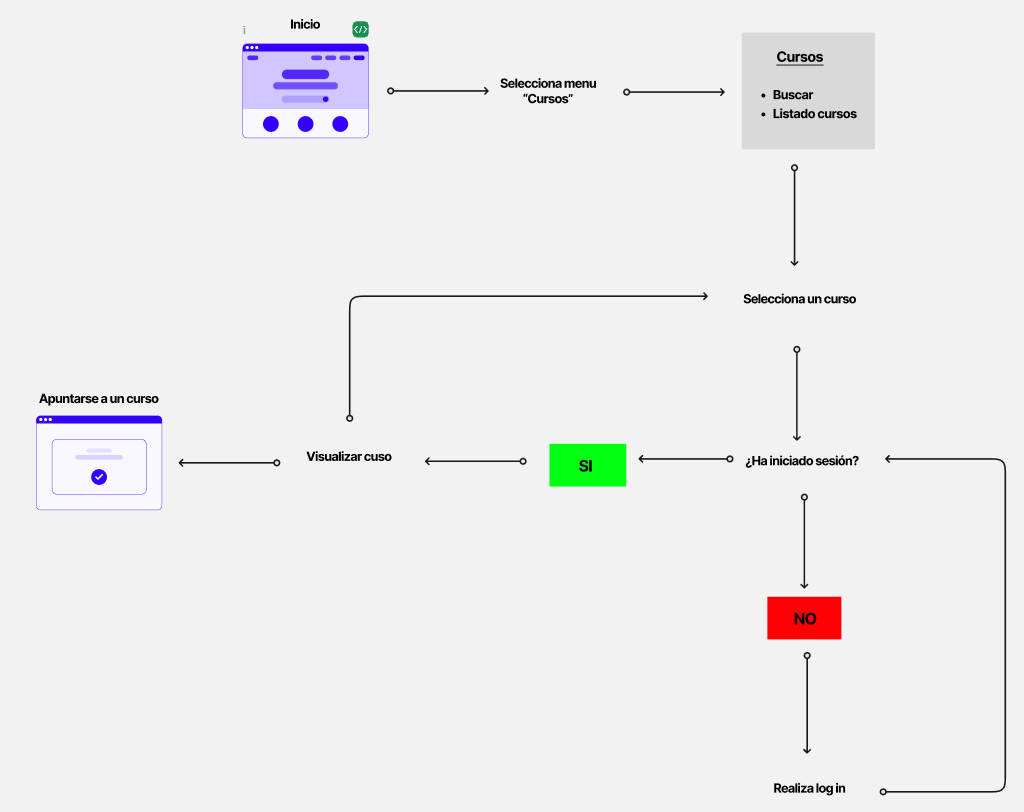
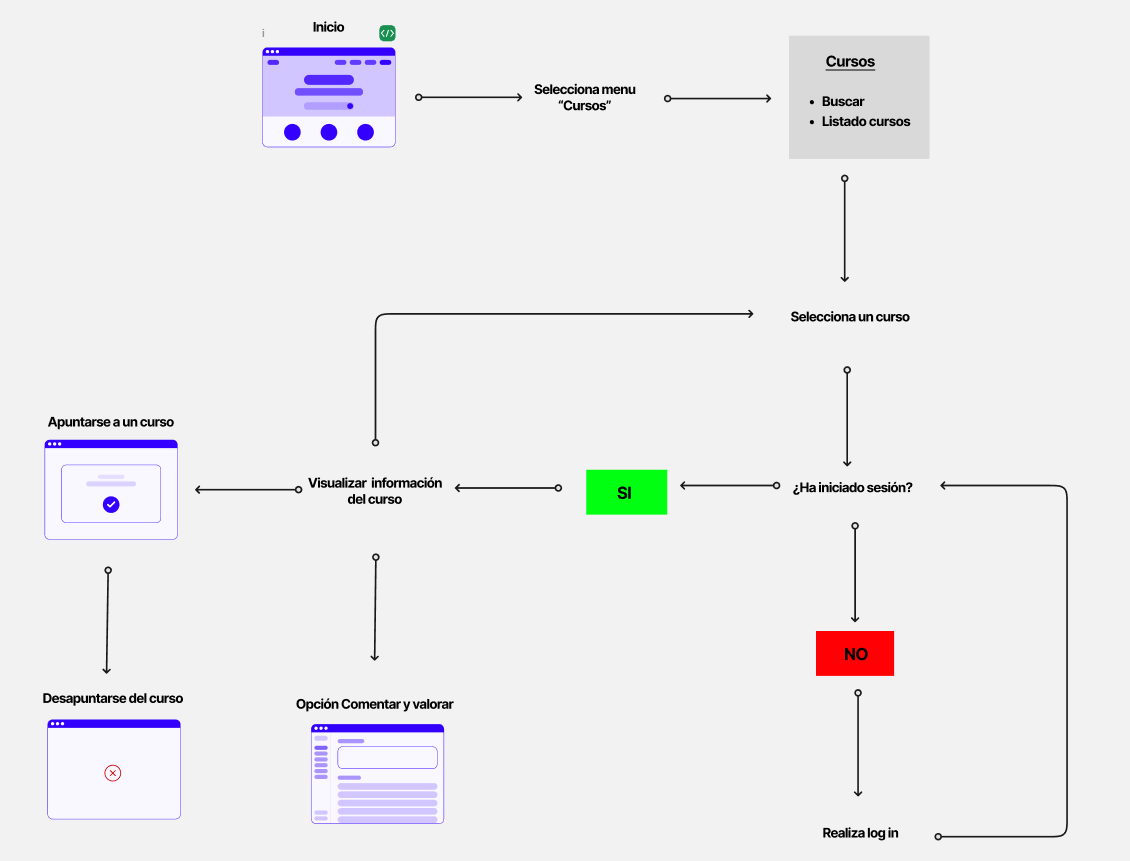
pangina principal wireframe y cambiado task analysis

diff --git a/README.md b/README.md
@@ -273,6 +273,10 @@ Término | Significado
 
 >>> Plantear el diseño del layout para Web/movil (organización y simulación). Describa la herramienta usada 
 
+Pagina principal o landing page
+
+![Método UX](img/landing-page-wireframes.png)
+
 <br>
 
 ## Paso 3. Mi UX-Case Study (diseño)

diff --git a/P2/README.md b/P2/README.md
@@ -70,6 +70,9 @@ La propuesta de valor realizada en scope canvas es la siguiente:
 
 ### Prototipo Lo-FI Wireframe 
 
+Pagina principal o landing page
+
+![Método UX](img/landing-page-wireframes.png)
 
 ### Conclusiones  
 (incluye valoración de esta etapa)
